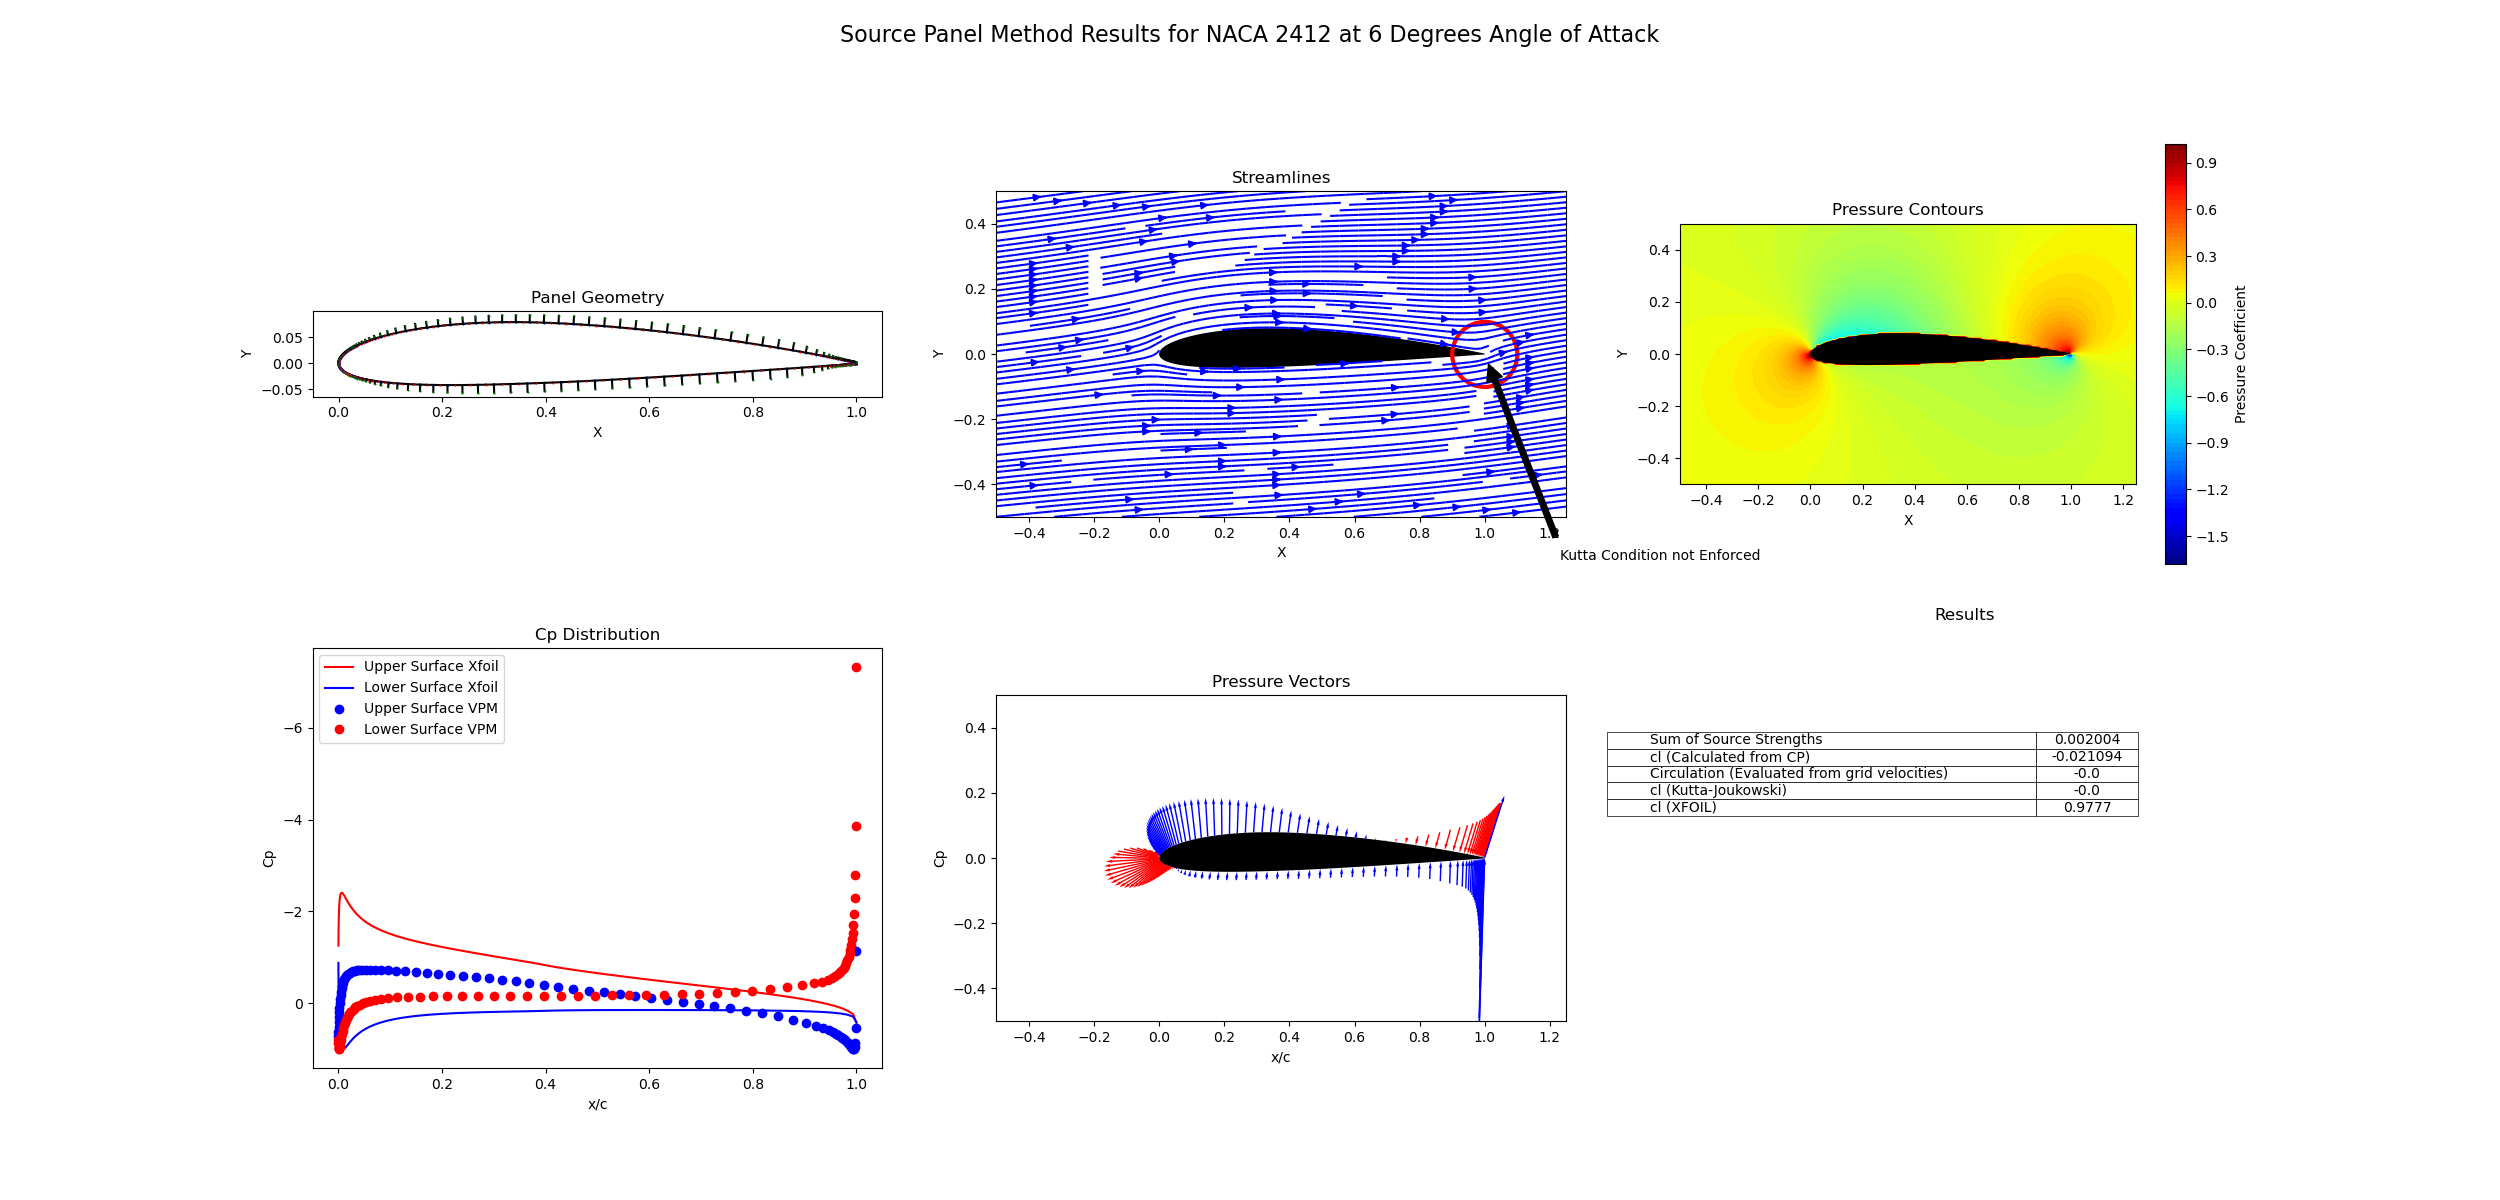
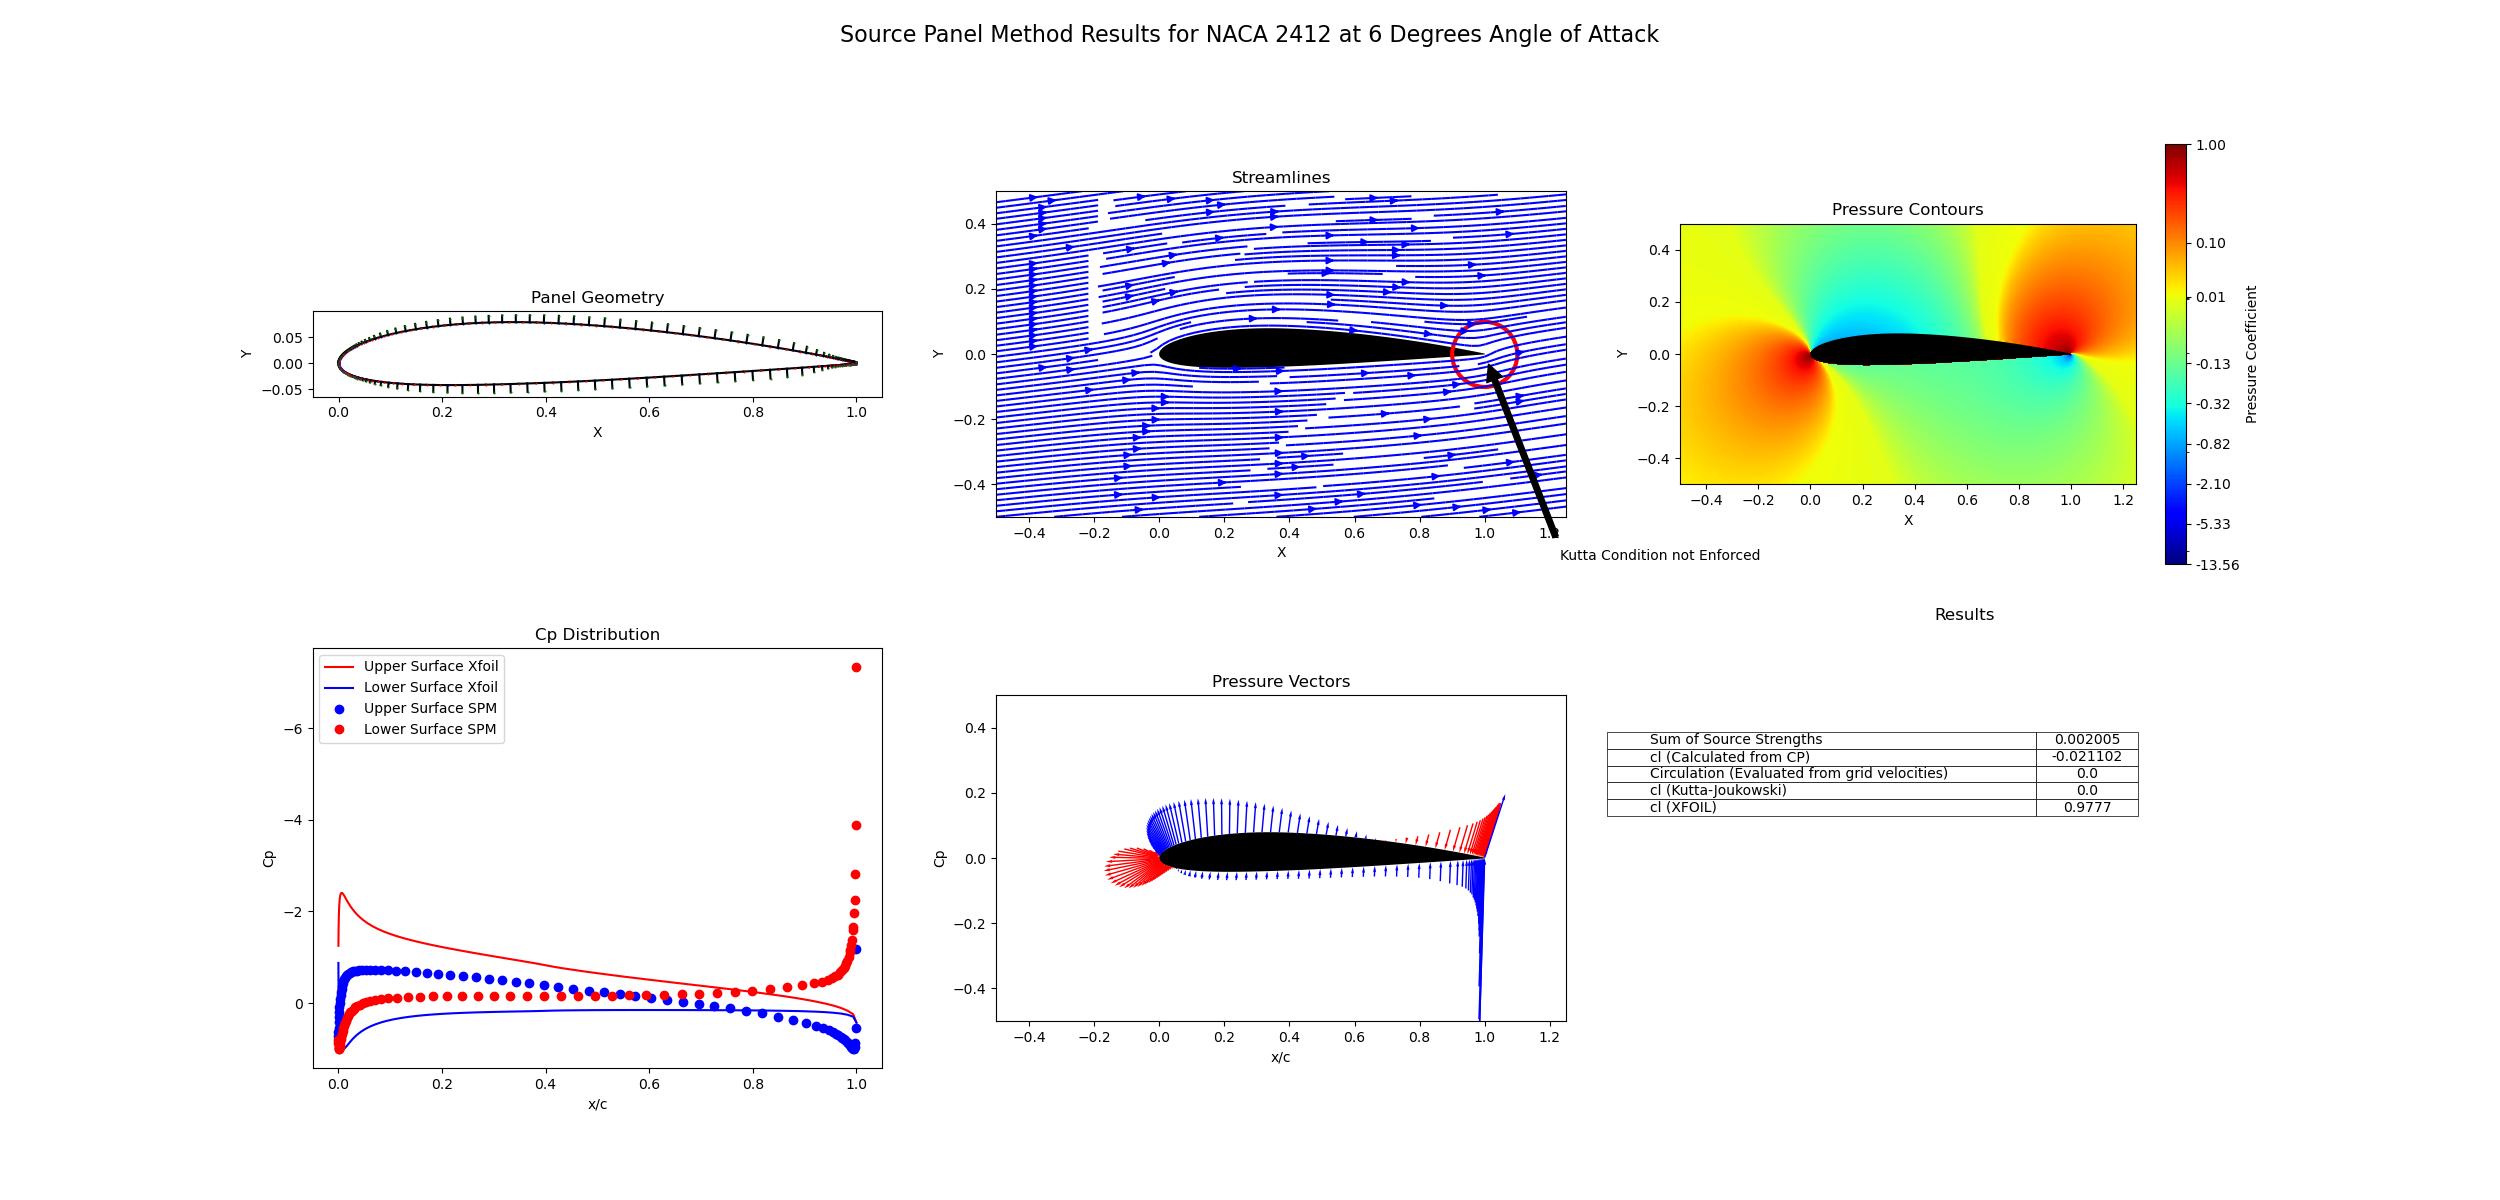
Updated Readme

diff --git a/vortex_panel_methods_Airfoil.py b/vortex_panel_methods_Airfoil.py
@@ -1,5 +1,7 @@
 import matplotlib.pyplot as plt
 import matplotlib.patches as patches
+import matplotlib.colors as colors
+from matplotlib import ticker
 from src.panel_generator import PanelGenerator
 from src.circulation import compute_ellipse_and_circulation
 from src.vortex_panel_methods_funcs import *
@@ -10,7 +12,7 @@ import time
 
 if __name__ == '__main__':
     airfoil = '2412'
-    AoA = 45
+    AoA = 6
     res = None
     x_foil_cl = 0
     try:
@@ -26,7 +28,7 @@ if __name__ == '__main__':
         xfoil_cp_upp = xfoil_cp[xfoil_cp['y'] >= 0]
         xfoil_cp_low = xfoil_cp[xfoil_cp['y'] <= 0]
 
-    num_grid = 150
+    num_grid = 1500  # Change this if it is too slow or you run out of memory
     X_NEG_LIMIT = -0.5
     X_POS_LIMIT = 1.25
     Y_NEG_LIMIT = -0.5
@@ -35,9 +37,9 @@ if __name__ == '__main__':
     load = 'Circle2'  # Load circle or airfoil
 
     time_start = time.time()
-# %% THE ABOVE CODE DOES NOT PROVIDE THE RIGHT BOUNDARY POINTS FOR THE AIRFOIL. LOAD THE AIRFOIL DATA FROM A FILE
+    # %% THE ABOVE CODE DOES NOT PROVIDE THE RIGHT BOUNDARY POINTS FOR THE AIRFOIL. LOAD THE AIRFOIL DATA FROM A FILE
 
-# %% PANEL METHOD GEOMETRY SETUP
+    # %% PANEL METHOD GEOMETRY SETUP
     XB, YB = np.loadtxt('naca2412.txt', unpack=True)
 
     numB = len(XB)
@@ -52,7 +54,7 @@ if __name__ == '__main__':
     panel_normal_vector_X = panelized_geometry.xC + panelized_geometry.S / 2 * np.cos(panelized_geometry.delta)
     panel_normal_vector_Y = panelized_geometry.yC + panelized_geometry.S / 2 * np.sin(panelized_geometry.delta)
 
-# %% VORTEX PANEL METHOD
+    # %% VORTEX PANEL METHOD
     V_normal, V_tangential, gamma, u, v = run_vortex_panel_method(panelized_geometry, V, AoA, x, y)
     sumGamma = np.sum(gamma * panelized_geometry.S)
     print('Sum of Vortex Circulation: ', sumGamma)
@@ -61,7 +63,7 @@ if __name__ == '__main__':
     local_v = np.sqrt(u ** 2 + v ** 2)
     cp = 1 - (local_v / V) ** 2
 
-# %% Pressure Coefficient for the panels
+    # %% Pressure Coefficient for the panels
     panel_velocities = V_tangential ** 2
     Cp = 1 - panel_velocities / V ** 2
     vpm_CP = pd.DataFrame({
@@ -73,7 +75,7 @@ if __name__ == '__main__':
     vpm_CP_upp = vpm_CP[vpm_CP['y'] >= 0]
     vpm_CP_low = vpm_CP[vpm_CP['y'] <= 0]
 
-# %% Lift and Drag Coefficients
+    # %% Lift and Drag Coefficients
     CN = -Cp * np.sin(panelized_geometry.beta) * panelized_geometry.S  # Normal coefficient
     CA = -Cp * np.cos(panelized_geometry.beta) * panelized_geometry.S  # Axial coefficient
 
@@ -87,7 +89,7 @@ if __name__ == '__main__':
     time_end = time.time()
     print('Time elapsed: ', time_end - time_start)
 
-# %% PLOTTING
+    # %% PLOTTING
     fig, axs = plt.subplots(2, 3, figsize=(25, 12), dpi=100)
     fig.suptitle(f'Vortex Panel Method Results for NACA {airfoil} at {AoA} degrees AoA', fontsize=16)
     # Panel Geometry
@@ -97,13 +99,16 @@ if __name__ == '__main__':
         axs[0, 0].plot([X[i]], [Y[i]], 'ro', markersize=0.5)
         axs[0, 0].plot([panelized_geometry.xC[i]], [panelized_geometry.yC[i]], 'bo', markersize=0.5)
         if i == 0:
-            axs[0, 0].plot([panelized_geometry.xC[i], panel_normal_vector_X[i]], [panelized_geometry.yC[i], panel_normal_vector_Y[i]],
+            axs[0, 0].plot([panelized_geometry.xC[i], panel_normal_vector_X[i]],
+                           [panelized_geometry.yC[i], panel_normal_vector_Y[i]],
                            'k', label='First Panel')
         if i == 1:
-            axs[0, 0].plot([panelized_geometry.xC[i], panel_normal_vector_X[i]], [panelized_geometry.yC[i], panel_normal_vector_Y[i]],
+            axs[0, 0].plot([panelized_geometry.xC[i], panel_normal_vector_X[i]],
+                           [panelized_geometry.yC[i], panel_normal_vector_Y[i]],
                            'k', label='Second Panel')
         else:
-            axs[0, 0].plot([panelized_geometry.xC[i], panel_normal_vector_X[i]], [panelized_geometry.yC[i], panel_normal_vector_Y[i]],
+            axs[0, 0].plot([panelized_geometry.xC[i], panel_normal_vector_X[i]],
+                           [panelized_geometry.yC[i], panel_normal_vector_Y[i]],
                            'k')
         axs[0, 0].plot([panel_normal_vector_X[i]], [panel_normal_vector_Y[i]], 'go', markersize=0.5)
     axs[0, 0].set_xlabel('X')
@@ -135,8 +140,14 @@ if __name__ == '__main__':
 
     # Pressure Contours
     axs[0, 2].set_title('Pressure Contours')
-    cp_plot = axs[0, 2].contourf(x, y, cp, 100, cmap='jet')
-    plt.colorbar(cp_plot, ax=axs[0, 2], label="Pressure Coefficient")
+    x_m, y_m = np.meshgrid(x, y)
+    cp_plot = axs[0, 2].pcolor(x_m, y_m, cp, cmap='jet', norm=colors.SymLogNorm(linthresh=0.03, linscale=0.03,
+                                                                                vmin=cp.min(), vmax=cp.max()))
+    ticks = -np.flip(np.geomspace(0.05, np.abs(cp.min()), 7))
+    ticks = np.append(ticks, np.geomspace(0.01, cp.max(), 3))
+    cbar = fig.colorbar(cp_plot, ax=axs[0, 2], label="Pressure Coefficient", ticks=ticks)
+    cbar.ax.yaxis.set_major_formatter(ticker.FormatStrFormatter('%0.2f'))
+
     axs[0, 2].fill(geometry.x, geometry.y, 'k')
 
     axs[0, 2].set_ylim(Y_NEG_LIMIT, Y_POS_LIMIT)

diff --git a/source_panel_methods_Airfoil.py b/source_panel_methods_Airfoil.py
@@ -1,20 +1,23 @@
 import matplotlib.pyplot as plt
+import matplotlib.colors as colors
+import matplotlib.ticker as ticker
 from src.source_panel_methods_funcs import *
 import matplotlib.patches as patches
 from src.panel_generator import PanelGenerator
 from src.circulation import compute_ellipse_and_circulation
 from aeropy import xfoil_module as xf
+import src.data_collections as dc
 import numpy as np
 import pandas as pd
 
 if __name__ == '__main__':
     airfoil = '2412'
-    AoA = 45
+    AoA = 6
     res = None
     x_foil_cl = 0
     try:
-        res = xf.find_pressure_coefficients(airfoil='naca' + airfoil, alpha=0, NACA=True, )
-        x_foil_cl = xf.find_coefficients(airfoil='naca' + airfoil, alpha=0, NACA=True, )['CL']
+        res = xf.find_pressure_coefficients(airfoil='naca' + airfoil, alpha=AoA, NACA=True, )
+        x_foil_cl = xf.find_coefficients(airfoil='naca' + airfoil, alpha=AoA, NACA=True, )['CL']
         xfoil_cp = pd.DataFrame(res)
         xfoil_cp_upp = xfoil_cp[xfoil_cp['y'] >= 0]
         xfoil_cp_low = xfoil_cp[xfoil_cp['y'] < 0]
@@ -25,7 +28,7 @@ if __name__ == '__main__':
         xfoil_cp_upp = xfoil_cp[xfoil_cp['y'] >= 0]
         xfoil_cp_low = xfoil_cp[xfoil_cp['y'] < 0]
     numB = len(xfoil_cp)
-    num_grid = 150
+    num_grid = 1500  # Change this if it is too slow or you run out of memory
     X_NEG_LIMIT = -0.5
     X_POS_LIMIT = 1.25
     Y_NEG_LIMIT = -0.5
@@ -33,9 +36,9 @@ if __name__ == '__main__':
 
     load = 'Circle2'  # Load circle or airfoil
 
-# %% THE ABOVE CODE DOES NOT PROVIDE THE RIGHT BOUNDARY POINTS FOR THE AIRFOIL. LOAD THE AIRFOIL DATA FROM A FILE
+    # %% THE ABOVE CODE DOES NOT PROVIDE THE RIGHT BOUNDARY POINTS FOR THE AIRFOIL. LOAD THE AIRFOIL DATA FROM A FILE
     # TODO: FIX THIS
-# %% PANEL METHOD GEOMETRY SETUP
+    # %% PANEL METHOD GEOMETRY SETUP
 
     XB, YB = np.loadtxt('naca2412.txt', unpack=True)
     V = 1
@@ -49,17 +52,19 @@ if __name__ == '__main__':
     panel_normal_vector_X = panelized_geometry.xC + panelized_geometry.S / 2 * np.cos(panelized_geometry.delta)
     panel_normal_vector_Y = panelized_geometry.yC + panelized_geometry.S / 2 * np.sin(panelized_geometry.delta)
 
-# %% SOURCE PANEL METHOD
+    # %% SOURCE PANEL METHOD
     V_normal, V_tangential, lam, u, v = run_source_panel_method(panelized_geometry=panelized_geometry, V=V, AoA=AoA,
                                                                 x=x, y=y)
-    sumLambda = np.sum(lam)
+
+    print(u)
+    sumLambda = np.sum(lam * panelized_geometry.S)
     print(f'Sum of Source Strengths: {sumLambda}')
 
-# %% Pressure Coefficient for the grid
+    # %% Pressure Coefficient for the grid
     local_v = np.sqrt(u ** 2 + v ** 2)
     cp = 1 - (local_v / V) ** 2
 
-# %% Pressure Coefficient for the airfoil
+    # %% Pressure Coefficient for the airfoil
     panel_velocities = V_tangential ** 2
     Cp = 1 - panel_velocities / V ** 2
 
@@ -77,12 +82,12 @@ if __name__ == '__main__':
     CL = np.sum(CN * np.cos(AoA * np.pi / 180)) - np.sum(CA * np.sin(AoA * np.pi / 180))  # Lift coefficient
     CD = np.sum(CN * np.sin(AoA * np.pi / 180)) + np.sum(CA * np.cos(AoA * np.pi / 180))  # Drag coefficient
 
-# %% Compute circulation
+    # %% Compute circulation
     airfoil_ellipse = dc.Ellipse(0.5, 0, 0.6, 0.2)
     flowfieldproperties = dc.FlowFieldProperties(x=x, y=y, u=u, v=v)
     circulation = compute_ellipse_and_circulation(flowfieldproperties, airfoil_ellipse, 1000)
 
-# %% PLOTTING
+    # %% PLOTTING
     fig, axs = plt.subplots(2, 3, figsize=(25, 12), dpi=100)
     fig.suptitle(f'Source Panel Method Results for NACA {airfoil} at {AoA} Degrees Angle of Attack', fontsize=16)
     # Panel Geometry
@@ -133,8 +138,18 @@ if __name__ == '__main__':
 
     # Pressure Contours
     axs[0, 2].set_title('Pressure Contours')
-    cp_plot = axs[0, 2].contourf(x, y, cp, 100, cmap='jet')
-    plt.colorbar(cp_plot, ax=axs[0, 2], label="Pressure Coefficient")
+
+    x_m, y_m = np.meshgrid(x, y)
+    cp_plot = axs[0, 2].pcolor(x_m, y_m, cp, cmap='jet', norm=colors.SymLogNorm(linthresh=0.03, linscale=0.03,
+                                                                                vmin=cp.min(), vmax=cp.max()))
+    ratio = np.abs(cp.max() / cp.min())
+    num_ticks = 10
+
+    ticks = -np.flip(np.geomspace(0.05, np.abs(cp.min()), 7))[:-1]
+    ticks = np.append(ticks, np.geomspace(0.01, cp.max(), 3))
+    cbar = fig.colorbar(cp_plot, ax=axs[0, 2], label="Pressure Coefficient", ticks=ticks)
+    cbar.ax.yaxis.set_major_formatter(ticker.FormatStrFormatter('%0.2f'))
+
     axs[0, 2].fill(geometry.x, geometry.y, 'k')
 
     axs[0, 2].set_ylim(Y_NEG_LIMIT, Y_POS_LIMIT)

diff --git a/README.md b/README.md
@@ -1,3 +1,6 @@
+## Acknowledgements
+Much thanks goes to [JoshTheEngineer](https://www.youtube.com/@JoshTheEngineer). His videos, derivations and code implementations were an invaluable resource for building this project especially the panel methods.
+
 # Potential Flow Visualizer
 
 This is a simple potential flow visualizer. The program allows you to experiment with the superposition of different potential flow fields. The program is written in Python using numpy and matplotlib for visualization.
@@ -163,4 +166,64 @@ flow.plot_velocity(x, y).show()
 ![img.png](images/StreamLinesKelvinOval.png)
 #### StreamPlot from Velocity
 ![img.png](images/StreamPlotKelvinOval.png)
+
+# Panel Methods
+### A Brief Overview
+Panel methods are a class of numerical methods used to solve potential flow problems. The idea is to represent the body as a collection of panels. Each of those panels are elementary flows. The flow field is calculated by superimposing the flow fields of each panel. However, to properly model the flow field, the panels must satisfy certain boundary conditions. 
+
+The boundary conditions are:
+- The flow velocity normal to the body must be zero
+- The Kutta-Joukowski condition must be satisfied
+
+With these boundary conditions, the strengths of each panel can be calculated. The main difference between the source panel method and the vortex panel method is the boundary condition. The source panel method satisfies the first boundary condition but cannot enforce the second. Hence, it can only model non-lifting flow. 
+
+On the other hand, The vortex panel method is able to enforce both boundary conditions.
+
+As a final note, there was a lot of math behind this. Most of the functions are just equations from the math. I would really recommend watching [JoshTheEngineer](https://www.youtube.com/channel/UC2csW4DZ8TtjzUtCrG4K3DQ)'s videos on the subject. They are very well explained and easy to follow.
+
+## Usage
+THe first thing you need to do is setup the geometry of the body. How you intend to do this is up to you, but you must provide a numpy array of x and y coordinates.
+
+```python 
+
+import numpy as np
+import src.data_collections as dc
+from src.panel_generator import PanelGenerator
+    XB, YB = np.loadtxt('naca2412.txt', unpack=True)
+    V = 1
+    geometry = dc.Geometry(XB, YB, AoA) # Create a geometry object
+    panelized_geometry = PanelGenerator.compute_geometric_quantities(geometry) # Panelize the geometry
+    x, y = np.linspace(X_NEG_LIMIT, X_POS_LIMIT, num_grid), np.linspace(Y_NEG_LIMIT, Y_POS_LIMIT,
+                                                                        num_grid) # Create a grid
+```
+This is the bare minimum to get this working
+
+### Source Panel Method
+```python
+from src.source_panel_methods_funcs import run_source_panel_method
+    V_normal, V_tangential, lam, u, v = run_source_panel_method(panelized_geometry=panelized_geometry, V=V, AoA=AoA,
+                                                                x=x, y=y)
+```
+With this, you are free to do whatever you want with the results. See [`source_panel_methods_Airfoil.py`](source_panel_methods_Airfoil.py) for an demonstration of how to use the results.
+
+### Vortex Panel Method
+
+it is the same as the source panel method except for the function call. 
+```python
+from src.vortex_panel_methods_funcs import run_vortex_panel_method
+    V_normal, V_tangential, gamma, u, v = run_vortex_panel_method(panelized_geometry=panelized_geometry, V=V, AoA=AoA,
+                                                                x=x, y=y)
+```
+See [`vortex_panel_methods_Airfoil.py`](vortex_panel_methods_Airfoil.py) for an demonstration of how to use the results.
+
+## Example Results: NACA 2412 Airfoil at 6 degrees AoA
+
+### Source Panel Method
+
+![Source-Panel-Method-2412-6-deg-AoA.png](images%2FSource-Panel-Method-2412-6-deg-AoA.png)
+
+### Vortex Panel Method
+
+![Vortex-Panel-Method-2412-6-deg-AoA.png](images%2FVortex-Panel-Method-2412-6-deg-AoA.png)
+
 
